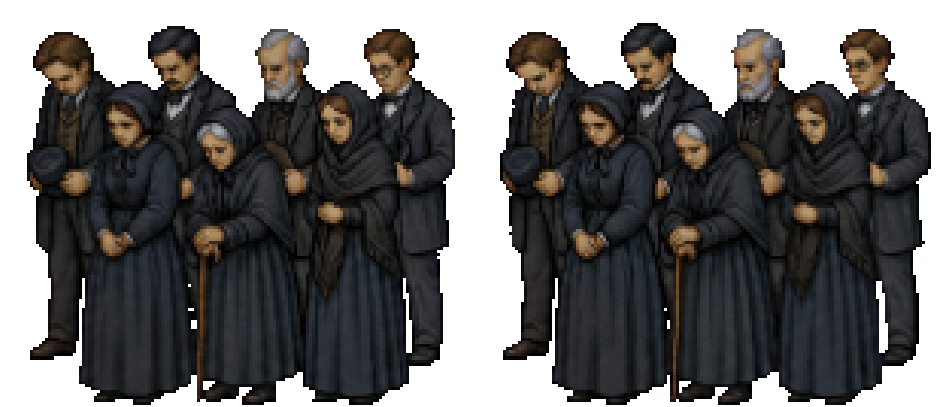
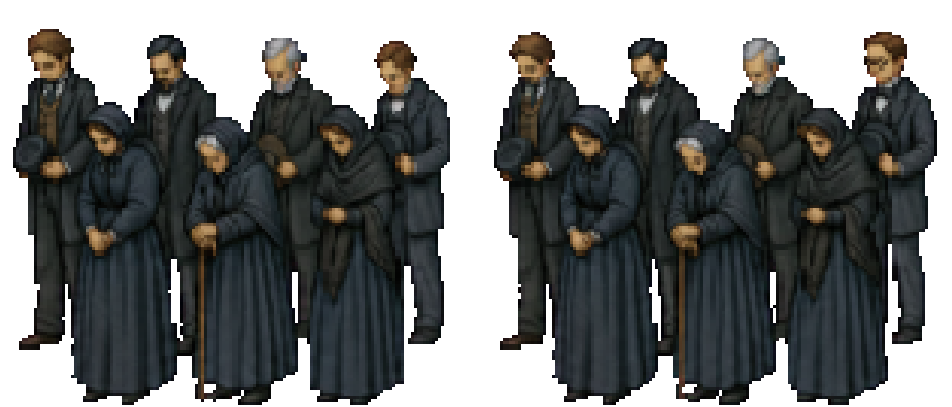
Errata 379: the mourners bowed in prayer, redrawn, wired (#458)
* The Act III mourners bowed in prayer, redrawn from their new rest frame

Tyler, 2026-11-18: "I think just the Act III mourners to match the
previous mourners" (reference/act3-mourners-bowed/brief.md, errata 378).
Cap entry act3-mourners-bowed, 2; one operation spent (9,712 tokens): the
new rest frame three times on magenta, redrawn as the group, bowed with
eyes shut, and bowed with the young man in spectacles peeking. Heads at
the new size, bodies and soles registered (lower-body IoU 0.90, soles on
row 402), light as the rest frame's. No correction needed.

act3-mourners-cut.py takes --sheet and --out (unchanged without them);
the cut is in art/staging/act3-mourners-bowed/op-1/bowed-cut.png at the
new 473 x 403 cells. Nothing wired: art/actors and content are untouched.

Lesson: none -- a redraw and its hand-back; no defect fixed.

Claude-Session: https://claude.ai/code/session_01FXbCupzwLJAEr7fqqWYP8A

* Errata 379: the mourners bowed in prayer, redrawn, wired

Claude-Session: https://claude.ai/code/session_01FXbCus2Hm36NL2YuHFGB8T

---------

diff --git a/tools/art/act3-mourners-cut.py b/tools/art/act3-mourners-cut.py
@@ -12,7 +12,11 @@ snapped to one level -- into their own sheet, frames the size of the shipping on
 At their existing drawn size; the room scales them. The main session wires them (an ambient placement in Room 14,
 or frames appended to the Room 31 record).
 
-Usage: act3-mourners-cut.py [--write]
+Usage: act3-mourners-cut.py [--sheet STAGING.png] [--out SHEET.png] [--write]
+
+--sheet cuts another three-group drawing made the same way. act3-mourners-bowed operation 1 redrew the prayer from
+the memorial's new rest frame (errata 378; Tyler, 2026-11-18: "I think just the Act III mourners to match the previous
+mourners"): art/staging/act3-mourners-bowed/op-1/sheet.png. --out writes somewhere other than the shipping sheet.
 """
 import json, os, sys, tempfile
 import numpy as np
@@ -45,13 +49,14 @@ def spill_left(a, tolerance=6):
 
 
 REC = 'content/ambient/funeral-mourners.json'
-OUT = os.path.join(ROOT, 'art/actors/room-14-mourners-bowed.png')
+arg = lambda k, d: sys.argv[sys.argv.index(k) + 1] if k in sys.argv else d
+OUT = os.path.join(ROOT, arg('--out', 'art/actors/room-14-mourners-bowed.png'))
 rec = read(REC); s = rec['sprite']
 sheet = np.asarray(Image.open(os.path.join(ROOT, s['sheet'])).convert('RGBA'))
 x, y, w, h = s['frames'][0]
 rest_cell = sheet[y:y + h, x:x + w].copy()
 target = int(rows(rest_cell)[-1] - rows(rest_cell)[0] + 1)
-STAGING = os.path.join(ROOT, 'art/staging/act3-hearse/op-2/sheet.png')
+STAGING = os.path.join(ROOT, arg('--sheet', 'art/staging/act3-hearse/op-2/sheet.png'))
 with tempfile.TemporaryDirectory() as tmp:
     # cut_row reads art/staging/cast-unify/batch-NN/sheet.png; point a batch number at this operation's sheet
     link = os.path.join(ROOT, 'art/staging/cast-unify/batch-act3-mourners')

diff --git a/reference/act3-mourners-bowed/handback.md b/reference/act3-mourners-bowed/handback.md
@@ -1,0 +1,75 @@
+# The mourners bowed in prayer, redrawn from their new rest frame: handed back (errata 378)
+
+Tyler, 2026-11-18: **"I think just the Act III mourners to match the previous mourners."** This hand-back answers the brief beside it (`brief.md`). **Nothing is wired;** the main session wires it.
+
+## Budget
+
+`art/staging/caps.json` has a new entry, `act3-mourners-bowed`, cap 2, quoting him. No ceiling is raised.
+
+**One operation is spent, 9,712 billed tokens.** It met the brief on head size, style and registration, so **the second operation was not used** and remains in hand.
+
+The ledger is at 481 attempts against `attemptsTotal` 483, and 4,921,430 tokens against 4,970,000 (about 48,500 left).
+
+## The drawing
+
+**Operation 1** (`op-1.txt`, `op-1.spec.json`, high quality) was given:
+1. **the template** (`art/staging/act3-mourners-bowed/op-1/template.png`): `rest-as-redrawn.png` three times side by side, full size, 500 px apart, on magenta;
+2. **`bowed-as-it-is.png`**, for the praying pose only (its heads are the old, bigger ones);
+3. **`graveside-with-redrawn-mourners.png`**, the group beside Thad and the Reverend at game size.
+
+**Three groups side by side, not three rows.** The brief says "three rows" and names act3-hearse operation 2's method. That operation laid its three groups side by side in one row, and `tools/art/act3-mourners-cut.py` cuts exactly that layout. So this drawing follows it, and the existing cut tool takes it unchanged.
+
+It returned (`art/staging/act3-mourners-bowed/op-1/sheet.png`):
+1. the first group as in the template, the ruler the cut registers on;
+2. all seven with heads bowed and eyes shut, hats and hands at the chest, the old woman on her cane;
+3. the same, except that the young man in spectacles (back row, right) has lifted his head and is peeking.
+
+**Heads** stay the new, small size, bowed or lifted. **Bodies, feet, clothes, the two hats and the cane** stay where row 1 has them.
+
+## The cut, for the wiring
+
+`tools/art/act3-mourners-cut.py` now takes two optional arguments. With neither, it behaves exactly as before:
+- `--sheet` points it at another three-group drawing;
+- `--out` writes somewhere other than the shipping sheet.
+
+The cut was run as:
+
+```
+python3 tools/art/act3-mourners-cut.py --sheet art/staging/act3-mourners-bowed/op-1/sheet.png \
+    --out art/staging/act3-mourners-bowed/op-1/bowed-cut.png --write
+```
+
+It reported `{"despilled": 90, "restRows": 395, "cut": [395, 395], "block": 3.14, "frames": [[2, 2, 473, 403], [477, 2, 473, 403]], "shippingFrame": [473, 403]}`.
+- **Frames:** both are exactly the new cell size, 473 x 403, and nothing grew.
+- **Order:** frame 0 is bowed with eyes shut; frame 1 is the one peeking.
+- **The result:** `art/staging/act3-mourners-bowed/op-1/bowed-cut.png`, the unmirrored source.
+
+**To wire it,** run the same command with `--out art/actors/room-14-mourners-bowed.png` (or copy the cut there). Then mirror it into `room-14-mourners-bowed-at-gate.png` for the gate, as errata 378 says. `tests/hearse.test.ts` holds the registration and the mirroring.
+
+**`art/actors/` is untouched on this branch.**
+
+## Measured against the shipping rest frame (`room-31-mourners-master.png` frame 0)
+
+| | lower-body outline overlap (IoU) | lower-body colour moved | soles row | mean light | contrast |
+|---|---|---|---|---|---|
+| rest (shipping) | | | 402 | 43.1 | 27.9 |
+| bowed, eyes shut | 0.902 | 3.9% | 402 | 43.6 | 25.4 |
+| bowed, one peeking | 0.896 | 6.7% | 402 | 44.3 | 26.1 |
+| the old bowed frame, for comparison | | | | 40.0 | 27.4 |
+
+- **"Lower body"** is everything below 45% of the figure's height, under the heads and shoulders.
+- **The whole figure** changes on 17-18% of its pixels: the heads, faces and hands. So the frames clear `tests/movement.test.mjs`'s 10% for an action.
+- **Nothing jumps:** the soles stay on the same row, and the light is the rest frame's.
+
+## What to look at
+
+**`renders/act3-mourners-bowed-beside-rest.png`**: the shipping rest frame, then the bowed frame, then the peeking frame, side by side at 1:1.
+
+## For Tyler's eye
+
+- **The peek.** The young man lifts his whole head a little, and his spectacles catch it. He does not open one eye with his head down. The brief asks for "lifted his head a little and is peeking".
+
+## Checks
+
+- All 67 checks pass.
+- All 2,092 tests pass.

diff --git a/docs/00-errata.md b/docs/00-errata.md
@@ -8848,3 +8848,11 @@ The line-up of everyone else drawn with a bigger head than Thad's was shown to T
 Seen in the build: the graveside (r31-a) and the gate (r14-stall-b).
 
 Lesson: none -- a copy of an approved drawing; `tests/hearse.test.ts` already holds the gate mirrored from the graveside and the prayer registered to the rest frame, and it caught the bowed sheet's width here.
+
+## 379 · The mourners bowed in prayer, redrawn, wired (Tyler, 2026-11-18: "I think just the Act III mourners to match the previous mourners")
+
+The prayer at the gate (`T_HILL_PRAYER`) now uses the drawing in `reference/act3-mourners-bowed/handback.md`: one operation, the second left unspent. The same seven people as the new rest frame, with heads bowed and eyes shut, and in the second frame the young man in spectacles lifts his head to peek. It is cut by `tools/art/act3-mourners-cut.py` into `art/actors/room-14-mourners-bowed.png` at the new cell size (473 x 403) and mirrored for the gate into `room-14-mourners-bowed-at-gate.png` by `tools/art/mirror-cells.py`, then the gate sheet re-snapped to one level (`tools/art/one-level.py --resnap --only`) and mirrored back so the two stay mirror images. Soles stay on the rest frame's row and the light matches it, so the group does not shift when they bow. With this, every Act III mourner sheet has the new heads.
+
+Seen in the build: the gate during the prayer.
+
+Lesson: none -- a drawing wired as its brief said; `tests/hearse.test.ts` holds the prayer registered to the rest frame and mirrored for the gate.
